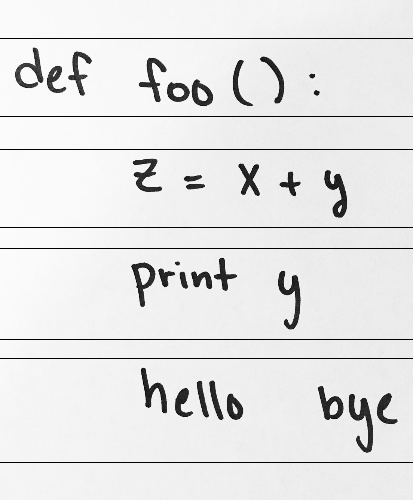
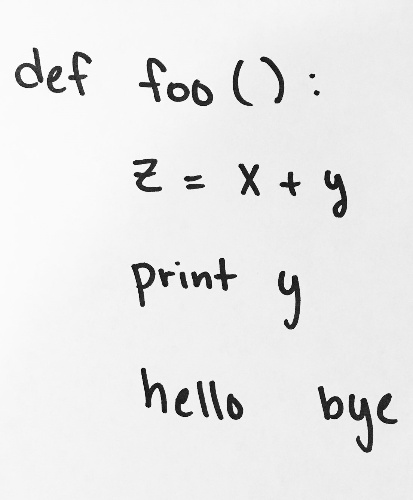
committed and pushed on Sat Jun 24 21:50:39 PDT 2017

diff --git a/parsing/parser.py b/parsing/parser.py
@@ -54,12 +54,21 @@ def parse():
         else:
             pass
 
+    list_of_img_dicts = []
+
     for img_num, line in enumerate(list_of_sections):
-        cv2.line(image, (0, line['start']), (cols, line['start']), (0, 0, 0), thickness=1)
-        cv2.line(image, (0, line['end']), (cols, line['end']), (0, 0, 0), thickness=1)
-        print(line['start'], line['end'])
+        # cv2.line(image, (0, line['start']), (cols, line['start']), (0, 0, 0), thickness=1)
+        # cv2.line(image, (0, line['end']), (cols, line['end']), (0, 0, 0), thickness=1)
+        # print(line['start'], line['end'])
         crop_img = image[line['start']:line['end'], 0:cols]
-        cv2.imwrite('{}.jpg'.format(img_num), crop_img)
+        list_of_img_dicts.append({'img': crop_img, 'indents': 0})
+
+
+    for img_num, img in enumerate(list_of_img_dicts):  # loop through to pass to azure
+        cv2.imshow('img {}'.format(img_num), img['img'])
+
+
+        # cv2.imwrite('{}.jpg'.format(img_num), crop_img)
 
 
 
